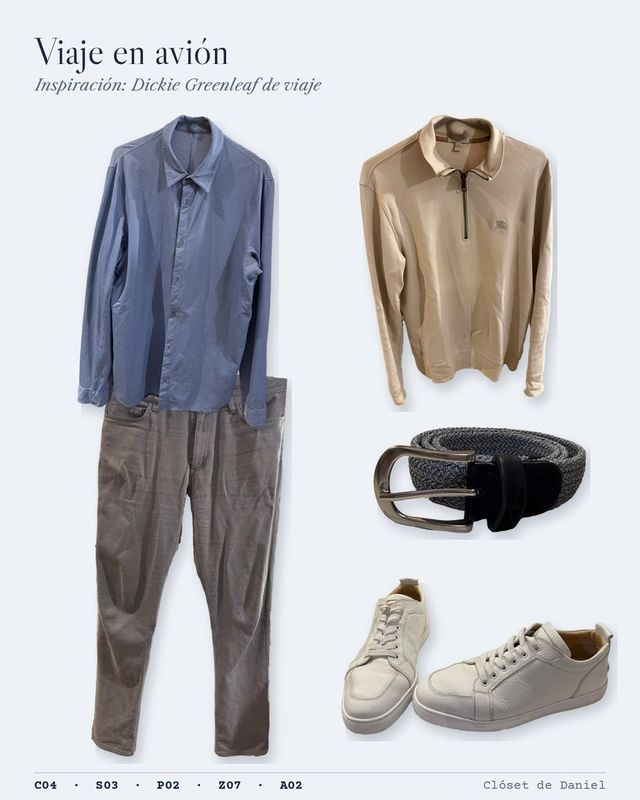
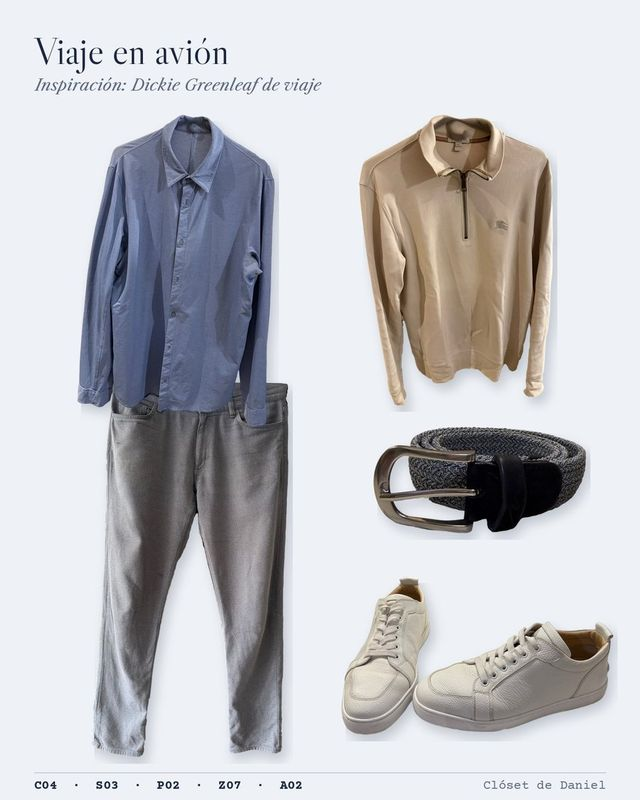
Fotos nuevas de 9 prendas: pantalón café, Theory, Moncler, cuatro oxford y dos corbatas
Recortes rehechos con las fotos repetidas que aprobó Daniel; pintas donde
salen regeneradas. Service worker closet-v17.

Claude-Session: https://claude.ai/code/session_01DaVJ4wwRDWXCYXdVTUkX46

Changed region(s): [[0.125, 0.4688, 0.4688, 0.9688]]

diff --git a/sw.js b/sw.js
@@ -1,5 +1,5 @@
 // Offline-friendly: the page and scripts come from the network when possible, photos from cache.
-const V = 'closet-v16';
+const V = 'closet-v17';
 const SHELL = ['/', '/app.js', '/avatar.js', '/avatar-wire.js', '/garments.js', '/vendor/three.module.min.js', '/manifest.json', '/icon-192.png'];
 self.addEventListener('install', e => { e.waitUntil(caches.open(V).then(c => c.addAll(SHELL)).then(() => self.skipWaiting())); });
 self.addEventListener('activate', e => { e.waitUntil(caches.keys().then(ks => Promise.all(ks.filter(k => k !== V).map(k => caches.delete(k)))).then(() => self.clients.claim())); });
